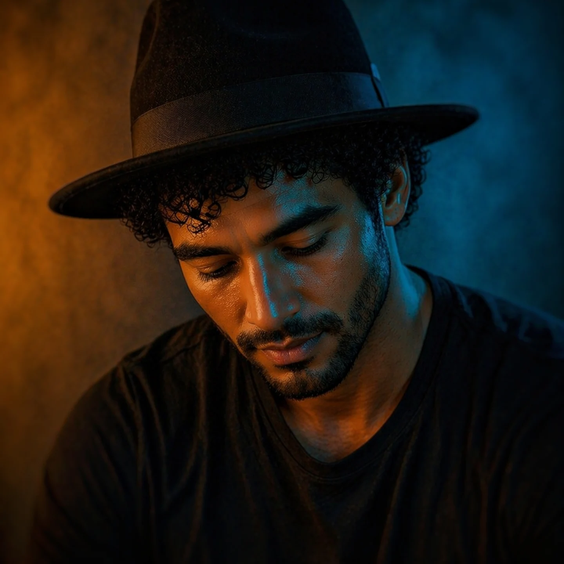
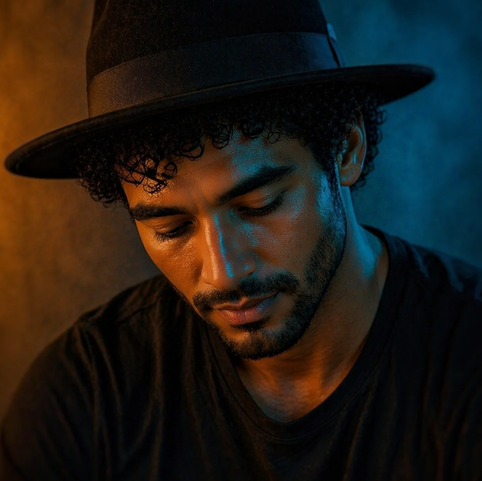
final

diff --git a/index.html b/index.html
@@ -311,11 +311,6 @@
     </style>
 </head>
 <body>
-    <div class="no-print-container" style="width: 8.5in; margin: 0 auto 10px auto; text-align: right;">
-        <button class="download-button" onclick="generatePDF()" style="background:#2b6cb0; color:white; padding:12px 24px; border:none; border-radius:6px; cursor:pointer; font-weight:bold;">
-            Download High-Res PDF
-        </button>
-    </div>
 
     <!-- ================= PAGE 1: INTRODUCTION ================= -->
     <div class="page">
@@ -373,8 +368,8 @@
                 <h2 style="text-align: left; border-bottom: 1.5px solid #e2e8f0; margin-bottom: 8px;">Identify rhetorical strategies that create curiosity.</h2>
                 <div class="columns">
                     <div class="column">
-                        <p>Instagram is a highly engagement-driven platform, most posts optimized for getting as many views and clicks as possible. In some ways, parts of the posting that are made to stop your scrolling is today’s form of <strong>rhetoric</strong>.</p>
-                        <p>Just the first few seconds you keep an audience hooked to your post, and that is enough for them to keep engaging for much longer. Successful posts don’t just rely on attractive images—they also use rhetorical choices that</p>
+                        <p>Instagram is a highly engagement-driven platform, where most posts are optimized to generate as many views and clicks as possible. In many ways, the elements designed to stop your scroll represent a modern form of <strong>rhetoric</strong>.</p>
+                        <p>Keeping an audience hooked for just the first few seconds is enough to sustain their engagement over a longer period. Successful posts don’t just rely on attractive images—they also use rhetorical choices that </p>
                     </div>
                     
                     <div class="column">
@@ -404,24 +399,24 @@
                 <div class="column">
                     <div class="figure-container" style="margin-top: 0;">
                         <img src="wireless_radiation.png" width="955" height="565" alt="Post challenging audience belief on radiation">
-                        <div class="figure-caption"><strong>Figure 7.2:</strong> Rhetorical framing exploiting the knowledge gap regarding everyday Bluetooth usage.</div>
+                        <div class="figure-caption"><strong>Figure 7.2:</strong> A post using knowledge gap to highlight everyday Bluetooth usage.</div>
                     </div>
                     
-                    <p>In the post above, the headline asks, “Should We Be Worried About Radiation” without stating right away whether Bluetooth is safe or harmful. Many readers assume they know the answer right away because they see others and themselves using Bluetooth devices everyday. However, that something so universally used might be even slightly dangerous is an unexpected consideration. Readers become curious because they want to see to what extent that their belief is true. This post specifically had eight other panels, but the reader will stay curious through all of them since the conclusion was only at the end.</p>
+                    <p>In the post above, the headline asks, “Should We Be Worried About Radiation” without stating right away whether Bluetooth is safe or harmful. Many readers assume they know the answer right away because they see others and themselves using Bluetooth devices everyday. However, that something so universally used might be even slightly dangerous is an unexpected consideration. Readers become curious because they want to see to what extent their belief is true. This post specifically had eight other panels, but the reader will stay curious through all of them since the conclusion was only at the end.</p>
                     <p>Although, as stated previously, challenging a reader’s belief is good for short-term attention, readers instinctively also like content they can agree with and relate to. <strong>Relevance</strong> can come from shared experiences, common knowledge, and reasonable conclusions. Out of everything else the audience was finding new, when they see a familiar concept and think “this applies to me,” their thoughts organize as if having a conversation. Otherwise, new information in a familiar topic will seem important because the audience will expect something useful.</p>
                 </div>
                 
                 <div class="column">
                 
                     
-                    <p>Another effective rhetoric for curiosity is <strong>specific detail</strong>. For example, numbers stand out. Instead of “Improve your writing,” a creator says: “These 17 words instantly improve your writing.” This specific and believable fact of “17 words” provides credibility and makes the audience wonder, “Which 17 words?” That’s curiosity.</p>
+                    <p>Another effective rhetorical strategy for building curiosity is the use of <strong>specific detail</strong>. For example, numbers stand out. Instead of “Improve your writing,” a creator says: “These 17 words instantly improve your writing.” This specific and believable fact of “17 words” provides credibility and makes the audience wonder, “Which 17 words?” That’s curiosity.</p>
                     
                     <div class="figure-container">
                         <img src="specific_detail.png" width="819" height="565" alt="Post utilizing specific numerical details">
-                        <div class="figure-caption"><strong>Figure 7.3:</strong> The use of hyper-specific metrics to instantly build credibility and halt scrolling.</div>
+                        <div class="figure-caption"><strong>Figure 7.3:</strong> A post with the use of specific metrics to instantly build credibility and stop the viewer's scrolling.</div>
                     </div>
 
-                    <p>A main text in this post uses “Day 132” and current followers of “924,829” to suddenly shift the tone from general to specific. Numbers are specific and accurate to the ones value instead of rounding it off or generalizing it, making the audience pause for a moment to think about the scale. Just a short-term attention for interpreting the context of such specific numbers is enough to keep the reader slightly longer for the main content. The content of this post, a video, compliments well with this detail as the reader is shifting their attention to the creator’s speech for explaining the context.</p>
+                    <p>A main text in this post uses “Day 132” and current followers of “924,829” to suddenly shift the tone from general to specific. Precise numbers appear more concrete than rounded estimates, making readers pause and wonder about their significance. Directing short-term attention toward interpreting the context of such specific numbers is enough to keep the reader slightly longer for the main content. The content of this post, a video, complements well with this detail as the reader is shifting their attention to the creator’s speech for explaining the context.</p>
 
                     <p>These are only two examples, creators use several other rhetorical strategies. The next rhetorical elements have to do with strengthening context right away, then making the reader be curious for it first.</p>
 
@@ -458,7 +453,7 @@
             <!-- Header and Intro -->
             <div style="margin-top: 10px;">
                 <h2 style="text-align: left; border-bottom: 1.5px solid #e2e8f0; margin-bottom: 8px;">Identify visual contrasts for an effective opening.</h2>
-                <p>One of the most noticeable strategies of successful Instagram posts are the visual elements themselves. These effects can be more instinctive, however, and usually unnoticed until directly analyzed. A strategy is to look for the following elements that shape attention in Instagram.</p>
+                <p>One of the most noticeable strategies of successful Instagram posts is the visual elements themselves. These effects can be more instinctive, however, and usually unnoticed until directly analyzed. A strategy is to look for the following elements that shape attention in Instagram.</p>
             </div>
 
             <!-- Visual Elements First Row -->
@@ -502,7 +497,7 @@
 
                     <p><strong>Human faces</strong>: close-up portraits, honest reactions, expressive eyes, laughter. It can also be the lack of it, like blank expressions or even partially hidden or turned away. Viewers mirror emotions after instant reading.</p>
                     <div class="figure-container">
-                        <img src="human_faces.png" width="564" height="564" alt="Example of Human Faces">
+                        <img src="human_faces.png" width="300" height="300" alt="Example of Human Faces">
                     </div>
                 </div>
                 
@@ -536,7 +531,7 @@
             <div class="full-width-image">
                 <img src="hierarchy.png" width="1294" height="629" alt="Visual Hierarchy Layout" style="max-width: 100%; height: auto; display: block;">
                 <div class="figure-caption" style="margin-top: 10px; padding: 12px; background: #f1f5f9; border-radius: 4px; color: #2d3748; line-height: 1.4;">
-                    <strong>Figure 7.4:</strong> Example of a high-hierarchy educational post and its accompanying caption text:
+                    <strong>Figure 7.4:</strong> Example of an educational post using hierarchy. Its accompanying caption text:
                     <p style="margin: 8px 0 5px 0; font-style: italic;">"The mind isn’t one dimensional so no single theory can fully explain it.</p>
                     <p style="margin: 5px 0; font-style: italic;">Some approaches focus on behaviour, some on thoughts, some on our past, and some on the bigger picture of human experience.</p>
                     <p style="margin: 5px 0 0 0; font-style: italic;">it isn't about choosing one side, it's about understanding how all these perspectives come together to make sense of who we are. 💙"</p>
@@ -548,13 +543,13 @@
                     <ol>
                         <li><strong>Hook</strong>: The heading “SCHOOLS OF PSYCHOLOGY” is the largest and center text, viewers will notice it first. The clean and minimalist aesthetic is also meant for the audience to be attracted.</li>
                         
-                        <li><strong>Curiosity</strong>: Oftentimes, the second text that will be read, as the text beneath the title: “Different perspectives. Same goal –- to understand the mind.” Explains the context and the broad theme as a <strong>clear message</strong>. The audience will keep reading if they’re curious about this message, and because the decision is slightly more subjective, it could be stronger against a general audience.</li>
+                        <li><strong>Curiosity</strong>: Oftentimes, the second text that will be read, as the text beneath the title: “Different perspec-</li>
                     </ol>
                 </div>
                 <div class="column">
-                    <ol start="3">
-                        <li><strong>Story</strong>: The six different psychology schools listed side by side. Explained with the soft pastel theme and icons that each school by itself is unique, and the whole perspective is there because each part of the story is present. The order is also thematic than chronological: structuralism is the first formal school, functionalism shifts to the mental process, behaviorism then transitions from mental to observable... psychoanalysis contrasts with emphasis on the unconscious mind, humanistic becomes even more metaphysical against behaviorism and psychoanalysis by emphasizing free will, and Gestalt often appears the last in textbooks as an even separate, the “how” perspective of humanistic.</li>
-                    </ol>
+                    <p>
+                            tives. Same goal –- to understand the mind.” Explains the context and the broad theme as a <strong>clear message</strong>. The audience will keep reading if they’re curious about this message, and because the decision is slightly more subjective, it could be stronger against a general audience.
+                    </p>
                 </div>
             </div>
         </div>
@@ -576,7 +571,10 @@
         <div class="page-content">
             <div class="columns">
                 <div class="column">
-                    <ol start="4">
+                    <ol start="3">
+
+                        <li><strong>Story</strong>: The six different psychology schools listed side by side. Explained with the soft pastel theme and icons that each school by itself is unique, and the whole perspective is there because each part of the story is present. The order is also thematic than chronological: structuralism is the first formal school, functionalism shifts to the mental process, behaviorism then transitions from mental to observable, psychoanalysis contrasts with emphasis on the unconscious mind, humanistic becomes even more metaphysical against behaviorism and psychoanalysis by emphasizing free will, and Gestalt often appears the last in textbooks as an even separate, the “how” perspective of humanistic.</li>
+
                         <li><strong>Value</strong>: After skimming over the content briefly, interested viewers will look closer at the contents of each box representing a school. The theme pastel colors and icons themselves are unique, highlighting different comparable points that transition effectively and make up the story. Each description with the theme icon, focus, key ideas, methods, concepts, and one-line summaries provide the educational value.</li>
                         
                         <li><strong>Lesson</strong>: The box at the bottom and the paragraphs of the caption. It is explained that “each school is a lens” and the story as a whole helps us understand “how all these perspectives come together and make sense of who we are.” The direct message by the creator as what they want you to remember.</li>
@@ -637,8 +635,133 @@
         </div>
     </div>
 
+   <!-- ================= PAGE 7: CHAPTER EXERCISE (PART 1) ================= -->
+    <div class="page">
+        <div class="running-header">
+            <span>Chapter 7: Digital Rhetoric &amp; Attention</span>
+            <span>Chapter Exercise: Part 1</span>
+        </div>
+        
+        <div class="page-content" style="justify-content: flex-start;">
+            <h2 style="margin-top: 0; margin-bottom: 10px;">Chapter Exercise: Analyze an Instagram Post</h2>
+            
+            <div class="figure-container" style="margin: 0 0 10px 0; padding: 0; border: none; box-shadow: none;">
+                <img src="exercise.jpg" style="width: 100%; height: auto; max-height: 550px; object-fit: cover; border-radius: 8px; border: 1px solid #cbd5e0;" alt="Exercise Image">
+            </div>
 
-    <!-- ================= PAGE 7: EVALUATION & SUMMARY ================= -->
+            <div style="margin-top: 5px;">
+                <h3 style="font-size: 12pt; border-bottom: 2px solid #3182ce; display: inline-block; padding-right: 20px; margin-bottom: 10px;">1. Curiosity</h3>
+                <p style="font-size: 9.5pt; margin-bottom: 2px;"><strong>What made you stop scrolling?</strong></p>
+                <div style="border-bottom: 1px solid #cbd5e0; height: 20px; margin-bottom: 8px;"></div>
+                
+                <p style="font-size: 9.5pt; margin-bottom: 2px;"><strong>How does the post create a knowledge gap?</strong></p>
+                <div style="border-bottom: 1px solid #cbd5e0; height: 20px; margin-bottom: 8px;"></div>
+
+                <p style="font-size: 9.5pt; margin-bottom: 2px;"><strong>How does it use specific details or numbers?</strong></p>
+                <div style="border-bottom: 1px solid #cbd5e0; height: 20px; margin-bottom: 8px;"></div>
+
+                <p style="font-size: 9.5pt; margin-bottom: 2px;"><strong>Does the hook describe the main idea, or is it optimized for attention?</strong></p>
+                <div style="border-bottom: 1px solid #cbd5e0; height: 20px; margin-bottom: 15px;"></div>
+            </div>
+
+            <div style="margin-top: 5px;">
+                <h3 style="font-size: 12pt; border-bottom: 2px solid #3182ce; display: inline-block; padding-right: 20px; margin-bottom: 10px;">2. Visual Contrast</h3>
+                <p style="font-size: 9.5pt; margin-bottom: 5px;">Identify at least three visual elements and explain their effect:</p>
+                <div style="display: grid; grid-template-columns: 1fr 1fr; gap: 15px; margin-top: 5px;">
+                    <div>
+                        <p style="font-size: 9pt; margin-bottom: 2px;">☐ <strong>Bright colors:</strong></p>
+                        <div style="border-bottom: 1px solid #cbd5e0; height: 22px;"></div>
+                        
+                        <p style="font-size: 9pt; margin: 8px 0 2px 0;">☐ <strong>Typography:</strong></p>
+                        <div style="border-bottom: 1px solid #cbd5e0; height: 22px;"></div>
+                        
+                        <p style="font-size: 9pt; margin: 8px 0 2px 0;">☐ <strong>Focal point:</strong></p>
+                        <div style="border-bottom: 1px solid #cbd5e0; height: 22px;"></div>
+                    </div>
+                    <div>
+                        <p style="font-size: 9pt; margin-bottom: 2px;">☐ <strong>Empty space:</strong></p>
+                        <div style="border-bottom: 1px solid #cbd5e0; height: 22px;"></div>
+                        
+                        <p style="font-size: 9pt; margin: 8px 0 2px 0;">☐ <strong>Human faces:</strong></p>
+                        <div style="border-bottom: 1px solid #cbd5e0; height: 22px;"></div>
+                        
+                        <p style="font-size: 9pt; margin: 8px 0 2px 0;">☐ <strong>Other elements:</strong></p>
+                        <div style="border-bottom: 1px solid #cbd5e0; height: 22px;"></div>
+                    </div>
+                </div>
+            </div>
+        </div>
+        
+        <div class="running-footer">
+            <span>Digital Rhetoric &amp; Attention</span>
+            <span>Page 220</span>
+        </div>
+    </div>
+
+    <!-- ================= PAGE 8: CHAPTER EXERCISE (PART 2) ================= -->
+    <div class="page">
+        <div class="running-header">
+            <span>Chapter 7: Digital Rhetoric &amp; Attention</span>
+            <span>Chapter Exercise: Part 2</span>
+        </div>
+        
+        <div class="page-content" style="justify-content: flex-start;">
+            <h3 style="font-size: 12pt; border-bottom: 2px solid #3182ce; display: inline-block; padding-right: 20px; margin-bottom: 5px;">3. Hierarchy</h3>
+            <p style="font-size: 9.5pt; margin-bottom: 8px;">Identify content flow and provide evidence from the post.</p>
+            
+            <table class="data-table" style="margin-top: 0; font-size: 8.5pt;">
+                <thead>
+                    <tr>
+                        <th style="width: 20%; padding: 4px 10px;">Stage</th>
+                        <th style="width: 15%; padding: 4px 10px;">Found?</th>
+                        <th style="width: 65%; padding: 4px 10px;">Evidence / Analysis</th>
+                    </tr>
+                </thead>
+                <tbody>
+                    <tr style="height: 32px;"><td><strong>Hook</strong></td><td></td><td></td></tr>
+                    <tr style="height: 32px;"><td><strong>Curiosity</strong></td><td></td><td></td></tr>
+                    <tr style="height: 32px;"><td><strong>Story</strong></td><td></td><td></td></tr>
+                    <tr style="height: 32px;"><td><strong>Value</strong></td><td></td><td></td></tr>
+                    <tr style="height: 32px;"><td><strong>Lesson</strong></td><td></td><td></td></tr>
+                    <tr style="height: 32px;"><td><strong>Takeaway</strong></td><td></td><td></td></tr>
+                    <tr style="height: 32px;"><td><strong>Engagement</strong></td><td></td><td></td></tr>
+                </tbody>
+            </table>
+
+            <div style="margin-top: 15px;">
+                <h3 style="font-size: 12pt; border-bottom: 2px solid #3182ce; display: inline-block; padding-right: 20px; margin-bottom: 5px;">4. Evaluation</h3>
+                <table class="data-table" style="width: 60%; margin: 5px 0; font-size: 8.5pt;">
+                    <thead>
+                        <tr>
+                            <th style="padding: 4px 10px;">Element</th>
+                            <th style="padding: 4px 10px;">Effectiveness</th>
+                        </tr>
+                    </thead>
+                    <tbody>
+                        <tr><td>Curiosity</td><td style="height: 22px;"></td></tr>
+                        <tr><td>Visual Contrast</td><td style="height: 22px;"></td></tr>
+                        <tr><td>Hierarchy</td><td style="height: 22px;"></td></tr>
+                        <tr style="background: #edf2f7; font-weight: bold;"><td>Overall</td><td style="height: 22px;"></td></tr>
+                    </tbody>
+                </table>
+            </div>
+
+            <div style="margin-top: 15px;">
+                <h3 style="font-size: 12pt; border-bottom: 2px solid #3182ce; display: inline-block; padding-right: 20px; margin-bottom: 8px;">5. Reflection</h3>
+                <p style="font-size: 9.5pt; margin-bottom: 8px;">In one paragraph, explain which combination of rhetorical strategies was the most effective and why. Then, if you were to create your own hook, how would it be different?</p>
+                <div style="border: 1px solid #cbd5e0; padding: 10px; height: 240px; background: #fff; overflow: hidden;">
+                    <div style="width: 100%; height: 100%; background-image: linear-gradient(#eee 1px, transparent 1px); background-size: 100% 28px; line-height: 28px;"></div>
+                </div>
+            </div>
+        </div>
+        
+        <div class="running-footer">
+            <span>Digital Rhetoric &amp; Attention</span>
+            <span>Page 221</span>
+        </div>
+    </div>
+
+    <!-- ================= PAGE 9: EVALUATION & SUMMARY ================= -->
     <div class="page">
         <div class="running-header">
             <span>Chapter 7: Digital Rhetoric &amp; Attention</span>
@@ -653,16 +776,16 @@
                 <table class="data-table">
                     <thead>
                         <tr>
-                            <th style="width: 45%;">Popular Myth</th>
-                            <th style="width: 20%;">Origin</th>
-                            <th style="width: 35%;">Fact &amp; Validity</th>
+                            <th style="width: 20%;">Popular Myth</th>
+                            <th style="width: 30%;">Origin</th>
+                            <th style="width: 50%;">Fact &amp; Validity</th>
                         </tr>
                     </thead>
                     <tbody>
                         <tr>
                             <td style="font-size: 1.1em; font-weight: bold; color: #2d3748;">Social media has reduced human attention span to 8 seconds (less than a goldfish).</td>
                             <td>A 2015 Microsoft Canada survey.</td>
-                            <td>It’s not possible for “attention span” to be standardized as one number. Contradictingly, minds have instead adapted with social media to handle high volumes of information, than not being able to. Maintaining long-term focus is different, like binge-watching a 10-hour television series.<br><span class="myth-truth-badge">❌ Entirely Fabricated</span></td>
+                            <td>It’s not possible for “attention span” to be standardized as one number. On the contrary, our minds have adapted with social media to handle high volumes of information, rather than not being able to. Maintaining long-term focus is different, like binge-watching a 10-hour television series.<br><span class="myth-truth-badge">❌ Entirely Fabricated</span></td>
                         </tr>
                         <tr>
                             <td style="font-size: 1.1em; font-weight: bold; color: #2d3748;">People passively consume whatever social media algorithms feed them.</td>
@@ -679,7 +802,7 @@
             </div>
 
             <h2 style="margin-top: 20px;">Summary</h2>
-            <p>Each Instagram post’s first goal is to make you stop scrolling. Then, to transfer this curiosity into an emotion the creator intends. And last, to visually guide you until the end so their conclusion and takeaway is remembered.</p>
+            <p>Each Instagram post’s first goal is to make you stop scrolling. Then, to transfer this curiosity into an emotion the creator intends. And last, to visually guide you until the end so their conclusion and takeaway are remembered.</p>
             <p>Throughout this chapter, you explored three ways creators accomplish this.</p>
             <ul>
                 <li><strong>Curiosity</strong> encourages the viewer to stop and pay attention by including <strong>knowledge gap</strong> and <strong>specific details</strong>.</li>
@@ -691,35 +814,86 @@
         
         <div class="running-footer">
             <span>Digital Rhetoric &amp; Attention</span>
-            <span>Page 220</span>
+            <span>Page 222</span>
         </div>
     </div>
 
-    <script>
-    function generatePDF() {
-        // Target the element containing all pages
-        const element = document.body;
+    <!-- ================= PAGE 10: SOURCES ================= -->
+    <div class="page">
+        <div class="running-header">
+            <span>Chapter 7: Digital Rhetoric &amp; Attention</span>
+            <span>Sources &amp; Citations</span>
+        </div>
         
-        // Configure the options
-        const opt = {
-            margin:       0,
-            filename:     'The_Rhetoric_of_Attention.pdf',
-            image:        { type: 'jpeg', quality: 0.98 },
-            html2canvas:  { 
-                scale: 2, // Higher scale = better quality
-                useCORS: true, 
-                letterRendering: true
-            },
-            jsPDF:        { unit: 'in', format: 'letter', orientation: 'portrait' },
-            // This is the magic part: it forces a new PDF page at every .page div
-            pagebreak:    { mode: ['css', 'legacy'], before: '.page' }
-        };
+        <div class="page-content" style="justify-content: flex-start;">
+            <h2 style="margin-top: 0;">Sources and References</h2>
+            <p style="font-size: 10pt; margin-bottom: 10px;">The following resources and examples were used in the development of this chapter's rhetorical analysis and visual case studies.</p>
 
-        // Run the conversion
-        html2pdf().set(opt).from(element).toPdf().get('pdf').then(function (pdf) {
-            // Optional: Any final tweaks to the PDF object can go here
-        }).save();
-    }
-    </script>
+            <div style="font-size: 9pt; line-height: 1.6;">
+                <h3 style="margin-bottom: 5px;">Chapter Introduction &amp; Figure 7.1 (Hook)</h3>
+                <ul style="list-style: none; margin-left: 0; margin-bottom: 15px;">
+                    <li style="word-break: break-all;"><a href="https://media.licdn.com/dms/image/v2/C4D22AQHui6fIjPy9xw/feedshare-shrink_800/feedshare-shrink_800/0/1654469025773?e=2147483647&v=beta&t=Nm_x2Bj7LBVyGomhNQe2Yjtvs7v9_7YCu_1HDbI9Thg">LinkedIn: Visual Priority Hook Image Source</a></li>
+                </ul>
+
+                <h3 style="margin-bottom: 5px;">Content Inspiration: Curiosity, Visuals, and Hierarchy</h3>
+                <ul style="list-style: none; margin-left: 0; margin-bottom: 10px;">
+                    <li>Ian Brodie: 7 Powerful Curiosity Building Strategies (<a href="https://www.ianbrodie.com/7-powerful-curiosity-building-strategies/">ianbrodie.com</a>)</li>
+                    <li>Medium: The Anatomy of a Good Social Media Post (<a href="https://medium.com/@sophiebonheim/the-anatomy-of-a-good-social-media-post-62074d5fe6d6">medium.com/@sophiebonheim</a>)</li>
+                    <li>Interaction Design Foundation: Visual Hierarchy Principles (<a href="https://ixdf.org/literature/topics/visual-hierarchy">ixdf.org</a>)</li>
+                </ul>
+
+                <h3 style="margin-bottom: 5px;">Curiosity Strategy Case Studies</h3>
+                <ul style="list-style: none; margin-left: 0; margin-bottom: 10px;">
+                    <li style="word-break: break-all;">Figure 7.2 Source: <a href="https://www.instagram.com/p/DaBYEffja2j/?img_index=1">instagram.com/p/DaBYEffja2j/</a></li>
+                    <li style="word-break: break-all;">Figure 7.3 Source: <a href="https://www.instagram.com/brock11johnson/">instagram.com/brock11johnson/</a></li>
+                </ul>
+
+                <h3 style="margin-bottom: 5px;">Visual Element Examples (Figures 7.3.1 - 7.3.5)</h3>
+                <ul style="list-style: none; margin-left: 0; margin-bottom: 10px;">
+                    <li>Bright Colors: <a href="https://www.instagram.com/p/DZKe1TRJ0Jq/?hl=en">instagram.com/p/DZKe1TRJ0Jq/</a></li>
+                    <li>Typography: <a href="https://www.instagram.com/p/DVjPwh6COax/?hl=en&img_index=4">instagram.com/p/DVjPwh6COax/</a></li>
+                    <li>Focal Point: <a href="https://www.instagram.com/p/DWeMCNtjHnX/">instagram.com/p/DWeMCNtjHnX/</a></li>
+                    <li>Human Faces: <a href="https://www.instagram.com/p/DXefR91Dqq4/">instagram.com/p/DXefR91Dqq4/</a></li>
+                    <li>Spaces: <a href="https://www.instagram.com/p/DXL_rJrCRBb/?img_index=3">instagram.com/p/DXL_rJrCRBb/</a></li>
+                </ul>
+
+                <h3 style="margin-bottom: 5px;">Visual Hierarchy Breakdown (Figure 7.4)</h3>
+                <ul style="list-style: none; margin-left: 0; margin-bottom: 10px;">
+                    <li style="word-break: break-all;"><a href="https://www.instagram.com/p/DYUGBrRRIrn/">instagram.com/p/DYUGBrRRIrn/</a></li>
+                </ul>
+
+                <h3 style="margin-bottom: 5px;">Exercise Case Study</h3>
+                <ul style="list-style: none; margin-left: 0; margin-bottom: 10px;">
+                    <li style="word-break: break-all;"><a href="https://www.instagram.com/p/DKzhPQ2CWPx/?hl=en">instagram.com/p/DKzhPQ2CWPx/</a></li>
+                </ul>
+
+                <h3 style="margin-bottom: 5px;">Research: Attention Myths &amp; Scientific Facts</h3>
+                <ul style="list-style: none; margin-left: 0; margin-bottom: 10px;">
+                    <li>UX Psychology: The Attention Span Myth (<a href="https://uxpsychology.substack.com/p/the-attention-span-myth">substack.com</a>)</li>
+                    <li>The Hoofprint: Social Media and the Attention Span Myth (<a href="https://whshoofprint.com/1552/opinion/social-media-and-the-attention-span-myth/">whshoofprint.com</a>)</li>
+                    <li>Psychology Today: Myth vs Fact on Teens and Social Media (<a href="https://www.psychologytoday.com/us/blog/freedom-learn/202011/myth-versus-fact-social-media-and-teens-mental-health">psychologytoday.com</a>)</li>
+                </ul>
+            </div>
+
+
+        <!-- ================= AI STATEMENT ================= -->
+            <div class="callout-box" style="background-color: #fefaf2; border-left: 4px solid #d69e2e; margin-top: 20px;">
+                <div class="callout-title" style="color: #975a16; font-size: 8.5pt;">AI Statement & Acknowledgments</div>
+                <p style="font-size: 8.5pt; line-height: 1.3; color: #744210; margin-bottom: 0;">
+                    ChatGPT (OpenAI) and Gemini (Google) were used during the planning stage to help brainstorm some chapter organization, textbook feature ideas, transitions between sections, and rhetorical concepts to emphasize. For example, I would paste article links and AI suggested how different concepts can be used effectively with examples that were not copied. Before the final draft, I would talk about each part of the content with AI and generally how I can improve specific concepts. However, advice from peers and the professor influenced the final edits a lot more.
+                    <br><br>
+                    <strong>Furthermore, AI was used to generate the HTML and CSS for the textbook design. This process involved significant effort in manually redoing, adding, and refining parts of the code through several rounds of prompts to achieve the final high-fidelity layout.</strong> 
+                    <br><br>
+                    All explanations, analyses, structure, main concepts, and final written content were independently written and revised by me.
+                </p>
+            </div>
+        </div>
+
+        
+        <div class="running-footer">
+            <span>Digital Rhetoric &amp; Attention</span>
+            <span>Page 223</span>
+        </div>
+    </div>
 </body>
 </html>